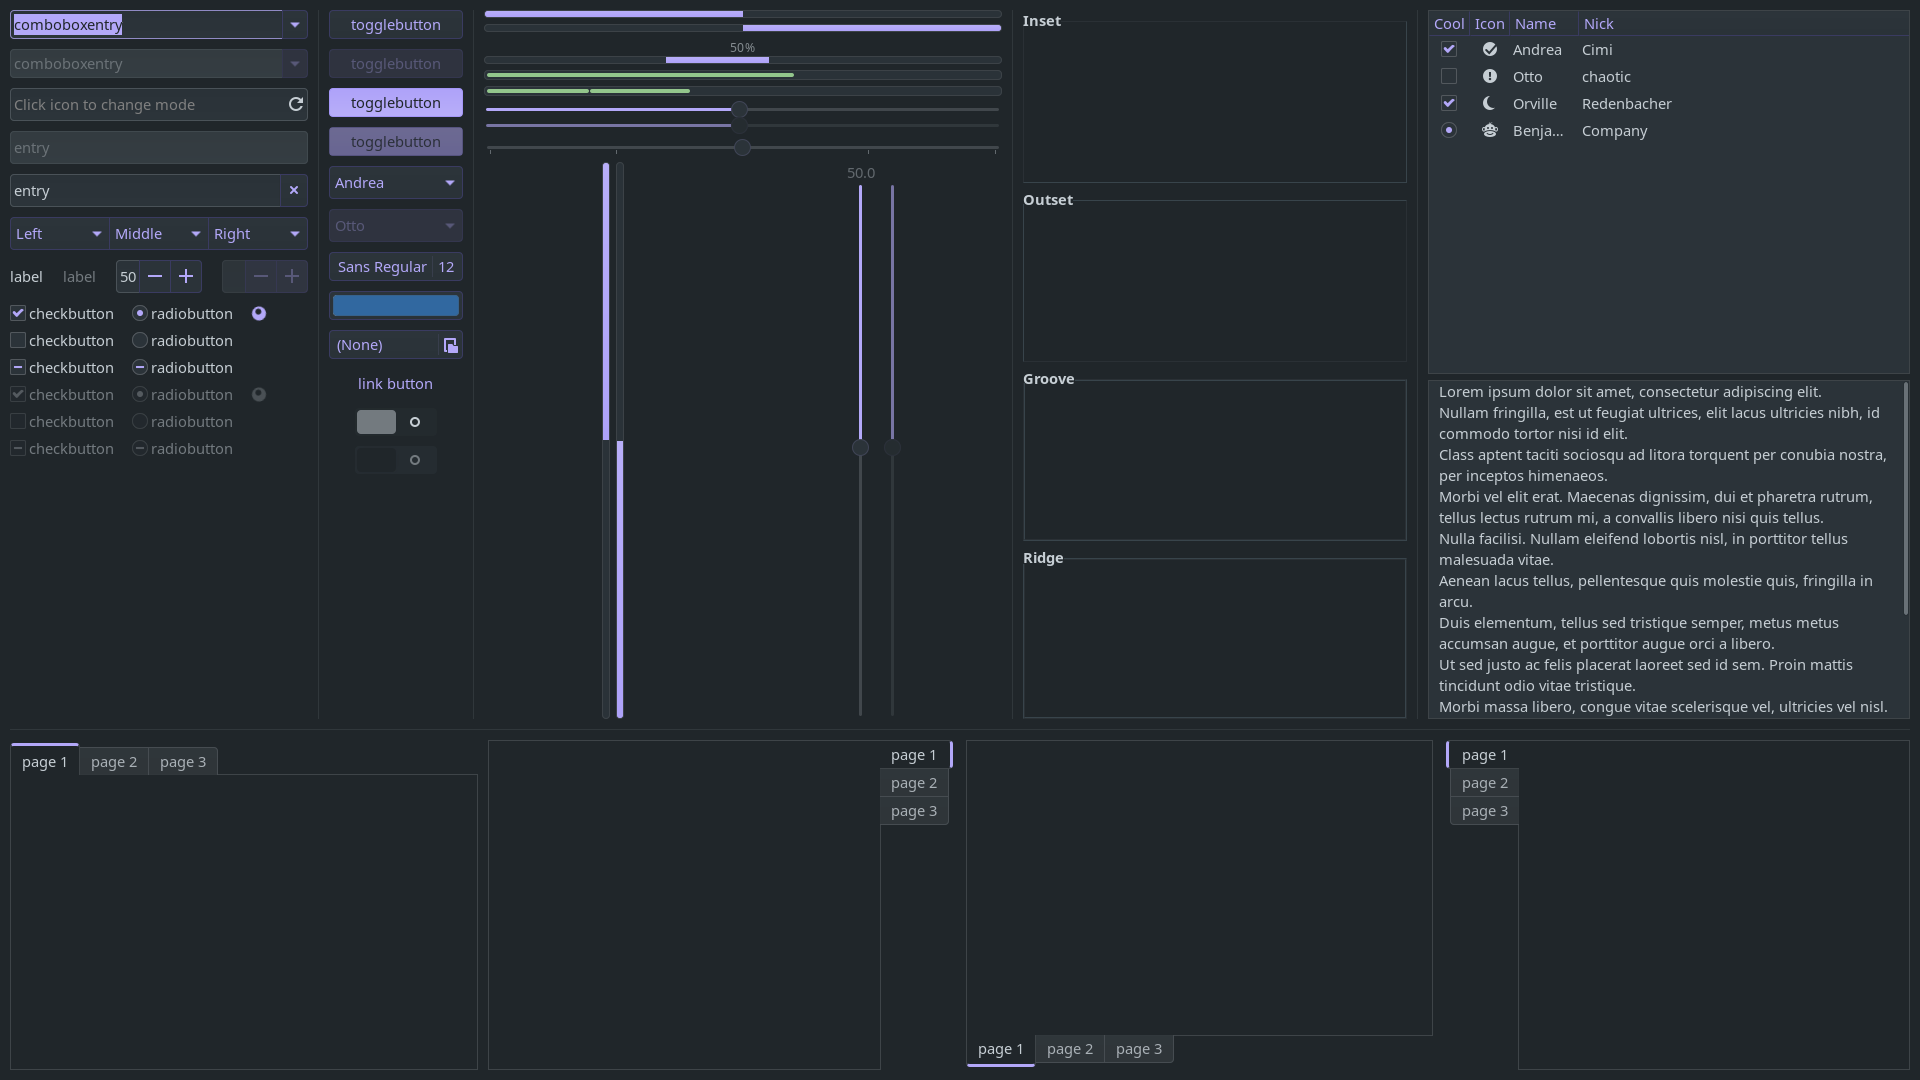
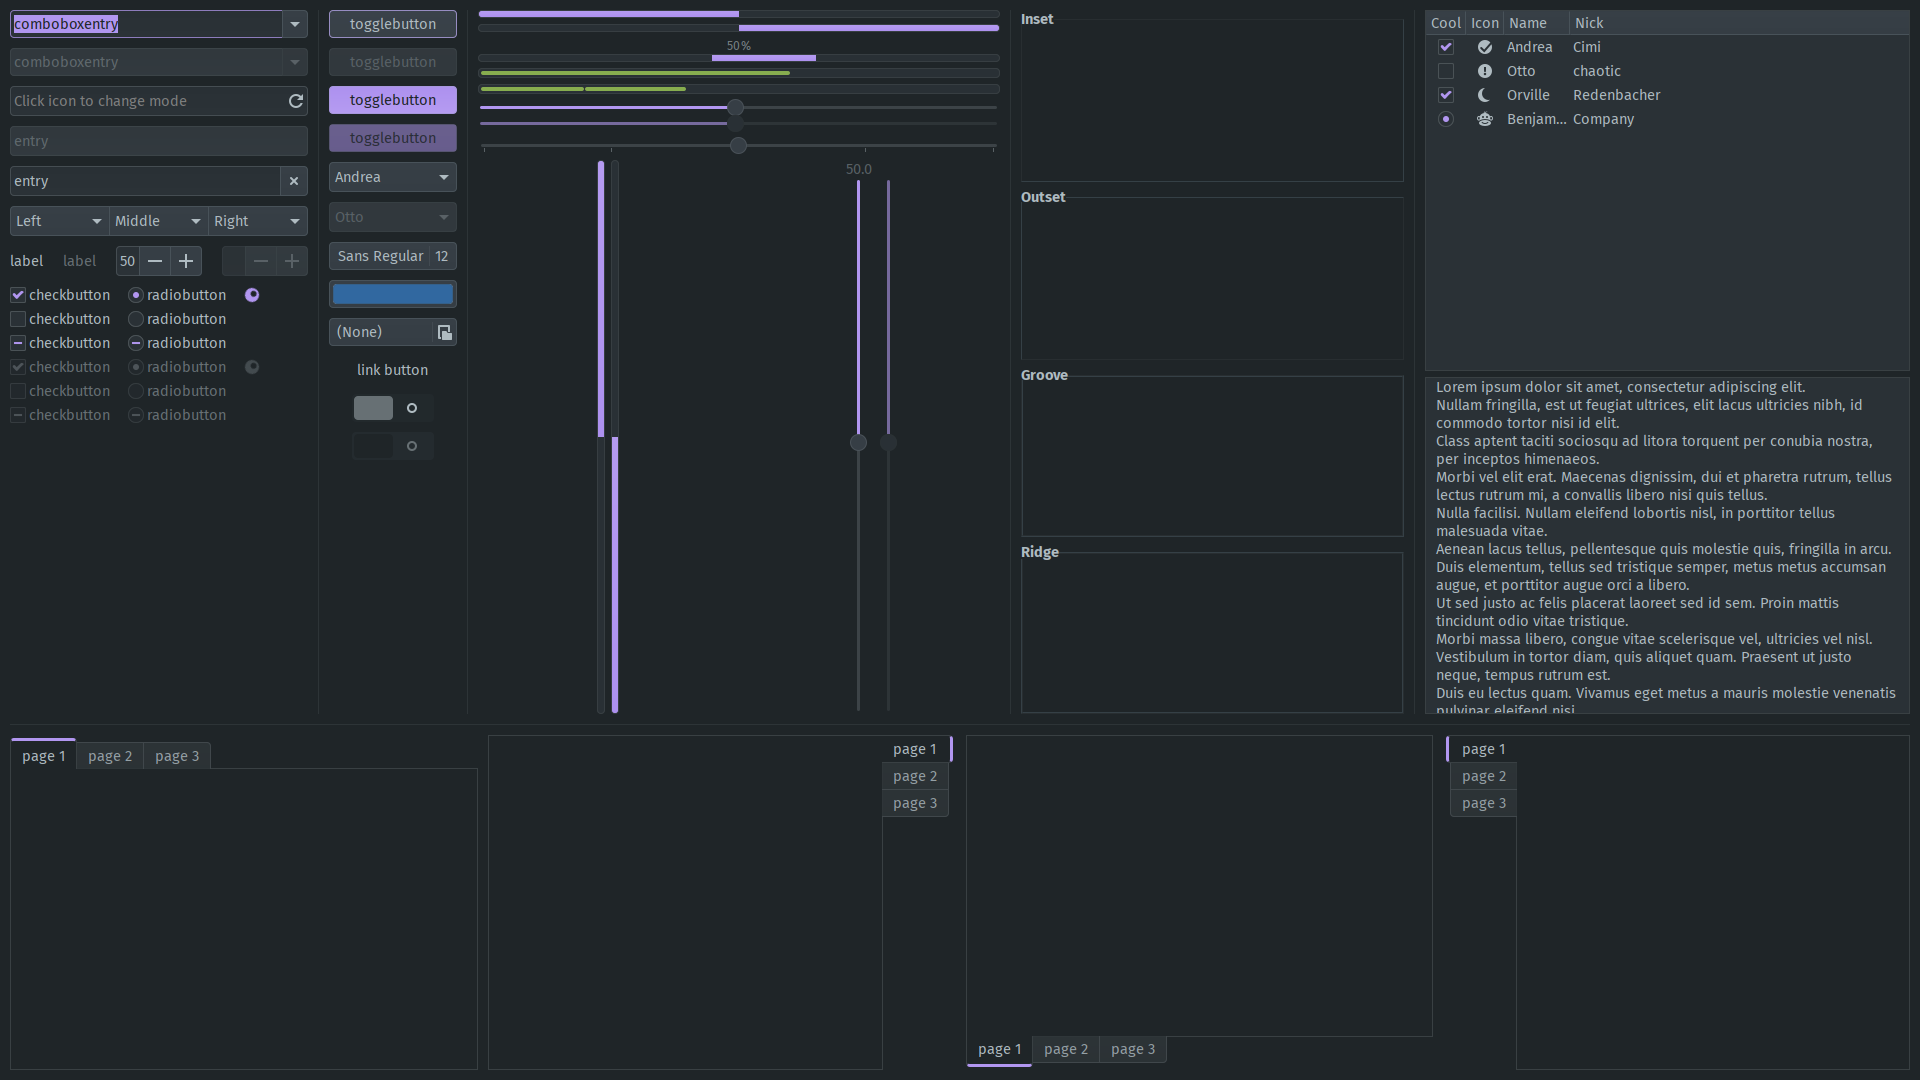
:hammer: Update media assets

diff --git a/README.md b/README.md
@@ -21,6 +21,7 @@
 ### :boom: Table of Contents
 
 - [Overview](#overview)
+- [Palette](#palette)
 - [Requirements](#requirements)
 - [Installation](#installation)
 - [References](#references)
@@ -95,11 +96,22 @@ These are available themes for you to be free to pick
   </div>
 </details>
 
-## :poop: Requirements
+## Palette
+
+Gemstones saves your eyestraints with a dark background and a pastel palette.
+
+<div align="center">
+  <img 
+    src="https://raw.githubusercontent.com/jadnw/gemstones.nvim/main/media/palette.svg"
+    alt="Gemstones GTK Palette"
+  />
+</div>
+
+## Requirements
 
 - [fish shell](https://fishshell.com)
 
-## :rocket: Installation
+## Installation
 
 Run the following command
 
@@ -109,6 +121,6 @@ curl -sS https://raw.githubusercontent.com/jadnw/gemstones.gtk/main/install | fi
 
 [Change your GTK theme](https://wiki.archlinux.org/title/GTK) with enjoy!
 
-## :memo: References
+## References
 
 - [jadnw/gemstones](https://github.com/jadnw/gemstones)
